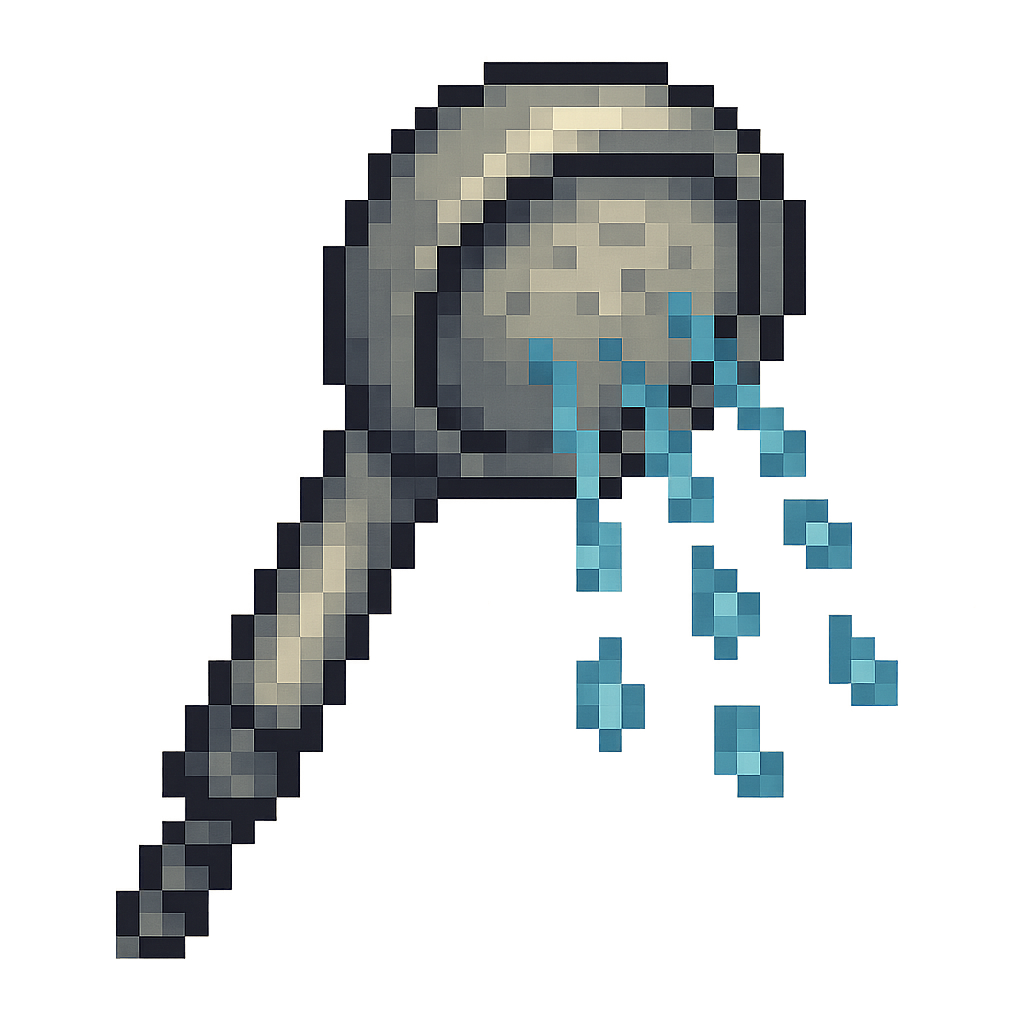
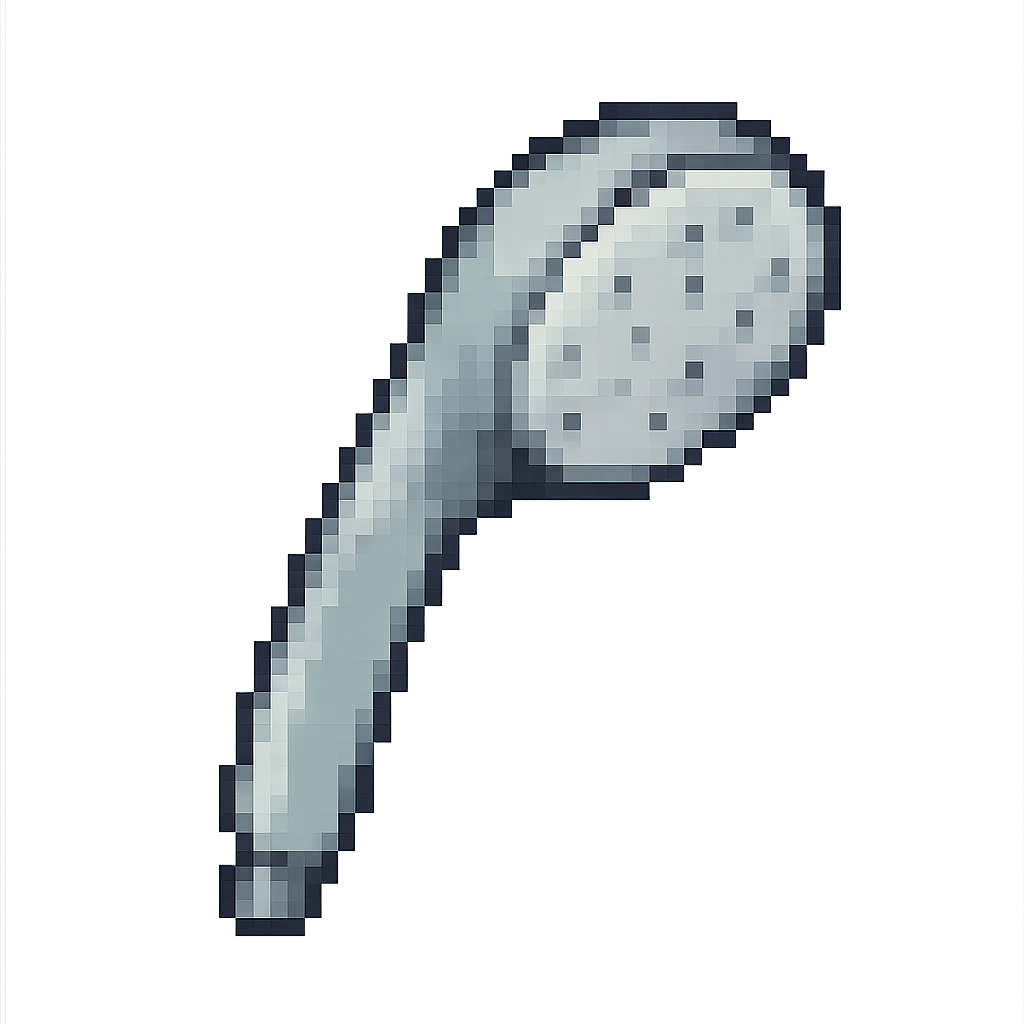
Fixed Bathroom Collision and Sprite

diff --git a/scene.py b/scene.py
@@ -61,7 +61,7 @@ class LivingRoomScene(Scene):
         self.bg = pygame.image.load("assets/living_room.png").convert()
         self.bg = pygame.transform.scale(self.bg, (SCREEN_WIDTH, SCREEN_HEIGHT))
 
-        self.pet_anchor = (260, 180)
+        self.pet_anchor = (390, 290)
 
         self.toys = [] # should hold toy objects
 
@@ -83,8 +83,8 @@ class LivingRoomScene(Scene):
 
         elif item.kind == "toy":
             if self.game.inv.consume(item):
-                x = 260 + 40 * (len(self.toys) % 5)
-                self.toys.append(Ball(item=item, pos=(x, 360)))
+                x = 300 + 40 * (len(self.toys) % 5)
+                self.toys.append(Ball(item=item, pos=(x, 350)))
 
 
     def handle_event(self, event):
@@ -122,28 +122,25 @@ class BathroomScene(Scene):
     def __init__(self, game):
         super().__init__(game)
 
-        self.pet_anchor = (260, 260)
+        self.pet_anchor = (360, 360)
 
         self.bg = pygame.image.load("assets/bathroom.png").convert()
         self.bg = pygame.transform.scale(self.bg, (SCREEN_WIDTH, SCREEN_HEIGHT))
 
         self.shower_img = pygame.image.load("assets/shower_head.png").convert_alpha()
-        self.shower_img = pygame.transform.scale(self.shower_img, (90, 90))
+        self.shower_img = pygame.transform.scale(self.shower_img, (120, 120))
 
         # --- centered shower head ---
         cx = SCREEN_WIDTH // 2
         self.head_rect = pygame.Rect(0, 0, 40, 26)      # shower head
-        self.head_rect.center = (cx, 92)
-        self.arm_start = (cx - 120, 80)                 # arm comes in from left
-        self.handle_rect = pygame.Rect(0, 0, 10, 18)    # little knob on right side
-        self.handle_rect.midleft = (self.head_rect.right + 6, self.head_rect.centery)
+        self.head_rect.center = (cx - 68, 100)
 
         # droplet spawn origin (center-bottom of head)
-        self.nozzle_center = (self.head_rect.centerx, self.head_rect.bottom - 2)
+        self.nozzle_center = (cx - 10, self.head_rect.bottom)
 
         # --- Shower button (toggle ON/OFF) ---
         self.spraying = False
-        self.shower_btn = pygame.Rect(20, 170, 110, 36)
+        self.shower_btn = pygame.Rect(37, 170, 110, 36)
 
         # --- droplets (visual only) ---
         self.droplets = []            # list of dict(x, y, vy)
@@ -175,10 +172,14 @@ class BathroomScene(Scene):
     # ---------- draw (order: wall → shower → pet → droplets → UI) ----------
     def draw(self, screen: pygame.Surface):
         screen.blit(self.bg, (0,0))
-        self._draw_shower(screen)
+        
+        self._draw_shower_button(screen)
 
         # pet
         self.game.pet.draw(screen, self.pet_anchor)
+
+        # shower head
+        screen.blit(self.shower_img, self.head_rect)
 
         # droplets
         self._draw_droplets(screen)
@@ -186,7 +187,6 @@ class BathroomScene(Scene):
         # UI
         self._draw_title_right("Bathroom")
         self._draw_hint_right("Toggle the Shower button to spray")
-        self._draw_shower_button(screen)
         self.draw_bar(40, 40, 200, 20, self.game.pet.hunger, "Hunger", (255, 100, 100))
         self.draw_bar(40, 100, 200, 20, self.game.pet.happiness, "Happiness", (100, 180, 255))
         self._draw_coin_hud()
@@ -195,14 +195,15 @@ class BathroomScene(Scene):
     # ---------- droplets ----------
     def _spawn_droplet(self):
         import random
-        x = self.nozzle_center[0] + random.uniform(-5, 5)
-        y = self.nozzle_center[1] + random.uniform(-2, 2)
+        x = self.nozzle_center[0] + random.uniform(-10, 10)
+        y = self.nozzle_center[1] + random.uniform(-3, 3)
         vy = random.uniform(300, 380)
         self.droplets.append({"x": x, "y": y, "vy": vy})
 
     def _update_droplets(self, dt: float):
         # get the pet rect for collision (use same anchor as draw)
         pet_rect = self.game.pet.get_rect(center=self.pet_anchor)
+        pet_rect.y += 30
 
         alive = []
         for d in self.droplets:
@@ -212,23 +213,16 @@ class BathroomScene(Scene):
 
             # if droplet hits pet, "remove" it by NOT appending
             if pet_rect.collidepoint(pos):
-                # optional: tiny extra happiness bump per hit
-                # self.game.pet.happiness = min(1.0, self.game.pet.happiness + 0.001)
                 continue
 
             # if still on-screen, keep it
-            if d["y"] < SCREEN_HEIGHT - 160:
+            if d["y"] < SCREEN_HEIGHT + 160:
                 alive.append(d)
 
         self.droplets = alive
 
 
     # ---------- draw pieces ----------
-    def _draw_shower(self, screen):
-        
-        screen.blit(self.shower_img, self.head_rect)
-
-
     def _draw_droplets(self, screen):
         for d in self.droplets:
             pygame.draw.circle(screen, (150, 190, 255), (int(d["x"]), int(d["y"])), 3)
@@ -401,7 +395,7 @@ class TitleScene(Scene):
 
         # button
         self.btn = pygame.Rect(0, 0, 180, 55)
-        self.btn.center = (SCREEN_WIDTH // 2, SCREEN_HEIGHT - 120)
+        self.btn.center = (SCREEN_WIDTH // 2, SCREEN_HEIGHT - 100)
 
         # colors
         self.btn_normal = (246, 232, 177)   # cream

diff --git a/pet.py b/pet.py
@@ -31,20 +31,20 @@ class Pet():
         print(self.happiness, "\n")
     
     def draw(self, screen, anchor):
-        screen.blit(self.img, anchor)
+        rect = self.img.get_rect()
+        rect.center = (int(anchor[0]), int(anchor[1]))
+        screen.blit(self.img, rect)
 
-    # inside class Pet
     def feed(self, amount: float):
         self.hunger = min(1.0, self.hunger + float(amount))
 
     def get_rect(self, center=None) -> pygame.Rect:
-        """
-        Returns the rect used when drawing the pet.
-        Use the same center you pass to draw().
-        """
-        cx, cy = center if center is not None else (self.pos.x, self.pos.y)
+        """Return the same rect used in draw()."""
+        if center is None:
+            center = (self.pos.x, self.pos.y)
+
         rect = self.img.get_rect()
-        rect.center = (int(cx), int(cy))
+        rect.center = (int(center[0]), int(center[1]))
         return rect
 
 

diff --git a/toys.py b/toys.py
@@ -13,7 +13,7 @@ class Ball:
 
         # Track pending happiness reward
         self._happy_pending = False
-        self._happy_boost = 0.003  # small boost per click (~0.3%)
+        self._happy_boost = 0.003  # small boost per click (0.3%)
 
     def handle_event(self, event):
         if event.type == pygame.MOUSEBUTTONDOWN and event.button == 1:

diff --git a/wallet.py b/wallet.py
@@ -1,5 +1,5 @@
 class Wallet:
-    def __init__(self, start_coins: int = 10, income_every: float = 5.0, income_amount: int = 1):
+    def __init__(self, start_coins: int = 10, income_every: float = 10.0, income_amount: int = 1):
         self.coins = start_coins
         self.income_every = income_every
         self.income_amount = income_amount

diff --git a/ui.py b/ui.py
@@ -13,7 +13,7 @@ class Hotbar:
         small_font=None,
         screen=None,
         on_click_item=None,
-        max_visible=4
+        max_visible=3
     ):
         self.inv = inventory
         self.items = items

diff --git a/game.py b/game.py
@@ -98,7 +98,6 @@ class Game():
         pygame.quit()
 
     # --------- Save Functions ------------
-
     def save_state(self):
         data = {
             "pet": {
